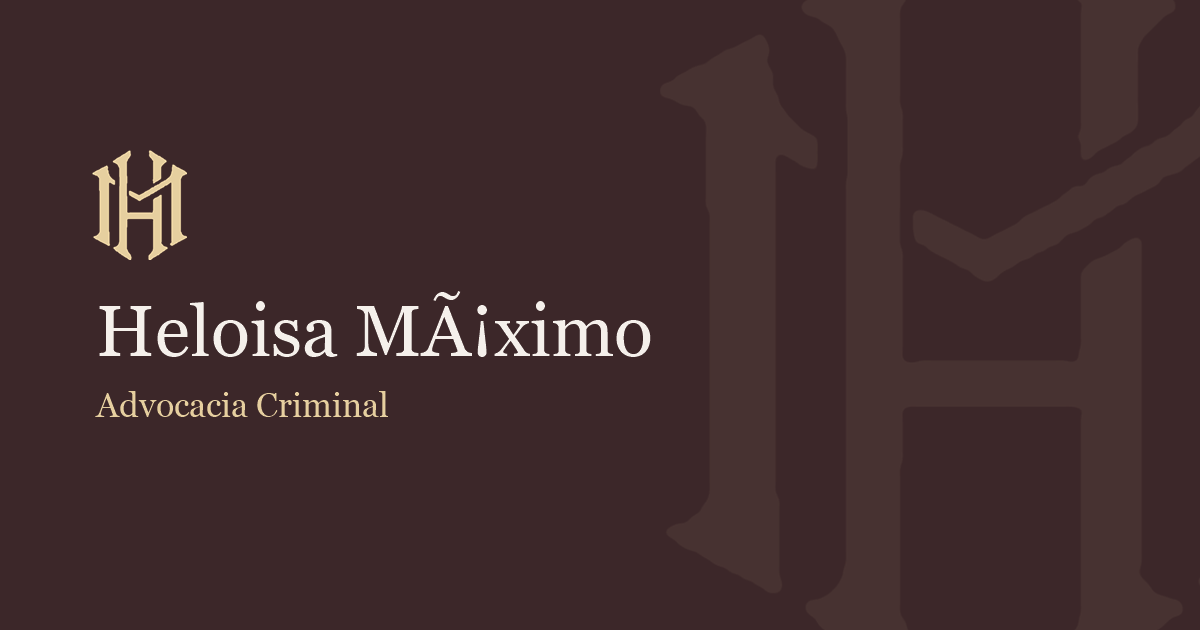
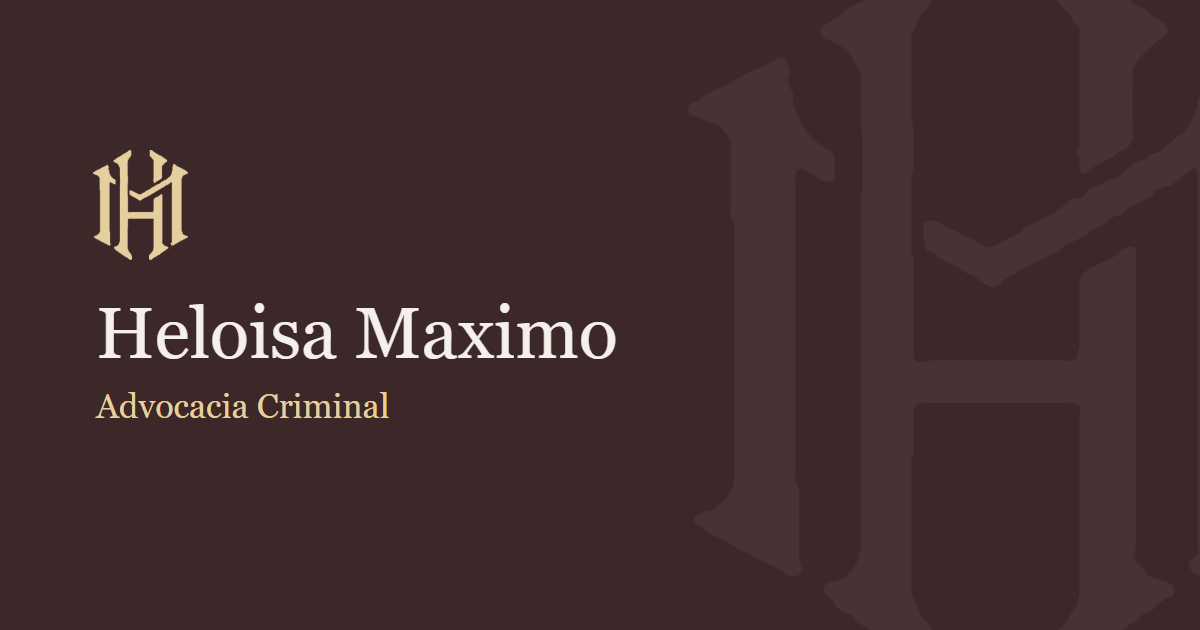
Nome corrigido para Heloisa Maximo, sem acento, e nova imagem de compartilhamento

Changed region(s): [[0.0925, 0.4524, 0.555, 0.573], [0.0617, 0.6032, 0.3392, 0.6635], [0.0925, 0.2413, 0.1542, 0.3921]]

diff --git a/src/textosLegais.js b/src/textosLegais.js
@@ -6,11 +6,11 @@ export const PRIVACIDADE = `# Política de Privacidade
 
 ## 1. Apresentação e identificação da responsável
 
-A presente Política de Privacidade estabelece as diretrizes aplicáveis ao tratamento de dados pessoais realizado no âmbito do website de **Heloisa Máximo**, advogada criminalista{{INSCRICAO}}.
+A presente Política de Privacidade estabelece as diretrizes aplicáveis ao tratamento de dados pessoais realizado no âmbito do website de **Heloisa Maximo**, advogada criminalista{{INSCRICAO}}.
 
 O tratamento de dados pessoais observará as disposições da Lei nº 13.709/2018 (Lei Geral de Proteção de Dados Pessoais — LGPD), da Lei nº 12.965/2014 (Marco Civil da Internet) e das demais normas aplicáveis à proteção da privacidade e ao exercício profissional da advocacia.
 
-Heloisa Máximo atua como controladora dos dados pessoais cujo tratamento esteja sob sua responsabilidade, competindo-lhe determinar as respectivas finalidades e os meios utilizados, nos termos da legislação vigente.
+Heloisa Maximo atua como controladora dos dados pessoais cujo tratamento esteja sob sua responsabilidade, competindo-lhe determinar as respectivas finalidades e os meios utilizados, nos termos da legislação vigente.
 
 Esta política tem por objetivo informar, de maneira clara e acessível, quais dados podem ser tratados, suas finalidades, os fundamentos legais aplicáveis, as condições de armazenamento e compartilhamento e os direitos assegurados aos respectivos titulares.
 
@@ -227,7 +227,7 @@ O titular poderá, ainda, apresentar petições ou reclamações perante a Autor
 
 Para solicitar informações sobre o tratamento de dados pessoais, esclarecer dúvidas ou exercer os direitos previstos na LGPD, o titular poderá entrar em contato com:
 
-**Heloisa Máximo**
+**Heloisa Maximo**
 Advogada{{OAB_LINHA}}
 **Canal de atendimento:** WhatsApp profissional disponibilizado no website.
 
@@ -251,7 +251,7 @@ export const TERMOS = `# Termos de Uso
 
 ## 1. Disposições preliminares
 
-Os presentes Termos de Uso estabelecem as condições aplicáveis ao acesso, à navegação e à utilização do website institucional de **Heloisa Máximo**, advogada criminalista{{INSCRICAO}}.
+Os presentes Termos de Uso estabelecem as condições aplicáveis ao acesso, à navegação e à utilização do website institucional de **Heloisa Maximo**, advogada criminalista{{INSCRICAO}}.
 
 O website destina-se à divulgação de informações institucionais e conteúdos jurídicos de caráter informativo, observadas as disposições do Estatuto da Advocacia e da OAB (Lei nº 8.906/1994), do Código de Ética e Disciplina da OAB, do Provimento nº 205/2021 do Conselho Federal da OAB e das demais normas aplicáveis.
 
@@ -261,7 +261,7 @@ Estes Termos de Uso devem ser interpretados em conjunto com a Política de Priva
 
 ## 2. Identificação e finalidade do website
 
-O website constitui um canal institucional destinado à apresentação da atuação profissional de Heloisa Máximo e à disponibilização de informações relacionadas ao Direito, com ênfase na área criminal.
+O website constitui um canal institucional destinado à apresentação da atuação profissional de Heloisa Maximo e à disponibilização de informações relacionadas ao Direito, com ênfase na área criminal.
 
 Seu conteúdo poderá compreender informações sobre trajetória profissional, áreas de atuação, publicações jurídicas, esclarecimentos gerais e canais de comunicação.
 
@@ -342,7 +342,7 @@ A utilização indevida poderá ensejar a adoção das medidas técnicas e jurí
 
 Os conteúdos originais disponibilizados no website, incluindo textos, artigos, fotografias, elementos gráficos, composições visuais e demais materiais protegidos, estão sujeitos à legislação brasileira de propriedade intelectual, especialmente à Lei nº 9.610/1998 (Lei de Direitos Autorais).
 
-Os direitos sobre esses materiais pertencem aos respectivos titulares, incluindo Heloisa Máximo quando se tratar de conteúdo de sua titularidade, ressalvados os materiais licenciados ou utilizados mediante autorização de terceiros.
+Os direitos sobre esses materiais pertencem aos respectivos titulares, incluindo Heloisa Maximo quando se tratar de conteúdo de sua titularidade, ressalvados os materiais licenciados ou utilizados mediante autorização de terceiros.
 
 A disponibilização pública dos conteúdos não implica transferência de titularidade, cessão de direitos ou concessão de autorização irrestrita para utilização.
 
@@ -392,7 +392,7 @@ Esses links têm finalidade informativa ou de facilitar o acesso aos canais de c
 
 O acesso a websites e plataformas externas sujeita o visitante às respectivas condições de uso, políticas de privacidade e práticas operacionais.
 
-Heloisa Máximo não exerce controle sobre a administração, a disponibilidade, as políticas internas ou as alterações promovidas por serviços independentes de terceiros.
+Heloisa Maximo não exerce controle sobre a administração, a disponibilidade, as políticas internas ou as alterações promovidas por serviços independentes de terceiros.
 
 A inclusão de links externos não representa, necessariamente, recomendação, associação comercial ou concordância com todo o conteúdo disponibilizado pelas respectivas plataformas.
 
@@ -464,7 +464,7 @@ Eventuais controvérsias serão submetidas aos meios de solução juridicamente 
 
 Dúvidas relacionadas ao conteúdo destes Termos de Uso poderão ser encaminhadas pelos canais profissionais disponibilizados no website.
 
-**Heloisa Máximo**
+**Heloisa Maximo**
 Advogada Criminalista
 {{OAB}}
 **Contato:** WhatsApp profissional disponível no website.

diff --git a/public/index.html b/public/index.html
@@ -3,25 +3,25 @@
   <head>
     <meta charset="utf-8" />
     <meta name="viewport" content="width=device-width, initial-scale=1" />
-    <title>Heloisa Máximo · Advocacia Criminal</title>
-    <meta name="description" content="Heloisa Máximo, advogada criminalista. Atuação em Direito Penal e Processual Penal, com base em Sergipe e atuação em todo o Brasil." />
-    <meta name="author" content="Heloisa Máximo" />
+    <title>Heloisa Maximo · Advocacia Criminal</title>
+    <meta name="description" content="Heloisa Maximo, advogada criminalista. Atuação em Direito Penal e Processual Penal, com base em Sergipe e atuação em todo o Brasil." />
+    <meta name="author" content="Heloisa Maximo" />
     <meta name="robots" content="index, follow" />
     <meta name="theme-color" content="#3c2729" />
     <link rel="canonical" href="https://advheloisamaximo.vercel.app/" />
 
     <meta property="og:type" content="website" />
     <meta property="og:locale" content="pt_BR" />
-    <meta property="og:site_name" content="Heloisa Máximo · Advocacia Criminal" />
-    <meta property="og:title" content="Heloisa Máximo · Advocacia Criminal" />
+    <meta property="og:site_name" content="Heloisa Maximo · Advocacia Criminal" />
+    <meta property="og:title" content="Heloisa Maximo · Advocacia Criminal" />
     <meta property="og:description" content="Atuação em Direito Penal e Processual Penal, com base em Sergipe e atuação em todo o Brasil." />
     <meta property="og:url" content="https://advheloisamaximo.vercel.app/" />
     <meta property="og:image" content="https://advheloisamaximo.vercel.app/og.png" />
     <meta property="og:image:width" content="1200" />
     <meta property="og:image:height" content="630" />
-    <meta property="og:image:alt" content="Monograma HM e o nome Heloisa Máximo, Advocacia Criminal" />
+    <meta property="og:image:alt" content="Monograma HM e o nome Heloisa Maximo, Advocacia Criminal" />
     <meta name="twitter:card" content="summary_large_image" />
-    <meta name="twitter:title" content="Heloisa Máximo · Advocacia Criminal" />
+    <meta name="twitter:title" content="Heloisa Maximo · Advocacia Criminal" />
     <meta name="twitter:description" content="Atuação em Direito Penal e Processual Penal, com base em Sergipe e atuação em todo o Brasil." />
     <meta name="twitter:image" content="https://advheloisamaximo.vercel.app/og.png" />
 
@@ -39,7 +39,7 @@
         "@context": "https://schema.org",
         "@type": "LegalService",
         "@id": "https://advheloisamaximo.vercel.app/#escritorio",
-        "name": "Heloisa Máximo · Advocacia Criminal",
+        "name": "Heloisa Maximo · Advocacia Criminal",
         "description": "Advocacia criminal em Direito Penal e Processual Penal, com base em Sergipe e atuação em todo o Brasil.",
         "url": "https://advheloisamaximo.vercel.app/",
         "image": "https://advheloisamaximo.vercel.app/og.png",
@@ -51,7 +51,7 @@
         "sameAs": ["https://www.instagram.com/advheloisamaximo/"],
         "founder": {
           "@type": "Person",
-          "name": "Heloisa Máximo",
+          "name": "Heloisa Maximo",
           "jobTitle": "Advogada Criminalista",
           "image": "https://advheloisamaximo.vercel.app/Heloisa.webp"
         }
@@ -60,7 +60,7 @@
   </head>
   <body>
     <noscript>
-      Este site precisa de JavaScript para funcionar. Para falar com Heloisa Máximo, advogada criminalista,
+      Este site precisa de JavaScript para funcionar. Para falar com Heloisa Maximo, advogada criminalista,
       use o WhatsApp +55 79 99627-0697.
     </noscript>
     <div id="root"></div>

diff --git a/src/data.js b/src/data.js
@@ -1,7 +1,7 @@
 // Textos, links e informações da advogada usados no site.
 
 export const PERFIL = {
-  nome: 'Heloisa Máximo',
+  nome: 'Heloisa Maximo',
   titulo: 'Advogada Criminalista',
   slogan: 'Defesa e orientação na área criminal.',
   especialidade: 'Direito Penal e Processual Penal',
@@ -19,8 +19,8 @@ export const DEV = {
 
 export const CONTATO = {
   whatsapp: '+55 79 99627-0697',
-  mensagem: 'Olá, Dra. Heloisa Máximo! Vim pelo seu site e gostaria de falar com a senhora.',
-  mensagemAnalise: 'Olá, Dra. Heloisa Máximo! Vim pelo seu site e gostaria de falar com a senhora sobre um caso.\n\nOrganizei as informações e respondi o seguinte:',
+  mensagem: 'Olá, Dra. Heloisa Maximo! Vim pelo seu site e gostaria de falar com a senhora.',
+  mensagemAnalise: 'Olá, Dra. Heloisa Maximo! Vim pelo seu site e gostaria de falar com a senhora sobre um caso.\n\nOrganizei as informações e respondi o seguinte:',
   instagram: 'https://www.instagram.com/advheloisamaximo/',
   instagramUser: '@advheloisamaximo',
   telefone: '',
@@ -91,7 +91,7 @@ export const CONTEUDOS = [
     resumo:
       'Palestra no projeto “Advocacia por Elas”, da OAB/SE, representando a Jovem Advocacia no interior do estado.',
     imagem: '/conteudo/advocacia-por-elas.jpg',
-    imagemAlt: 'Heloisa Máximo falando ao microfone durante palestra',
+    imagemAlt: 'Heloisa Maximo falando ao microfone durante palestra',
     texto: [
       'Na última semana eu tive a honra e o privilégio de estar como palestrante no projeto “Advocacia por Elas” da OAB/SE, representando a Jovem Advocacia no interior do estado.',
       'Ocupar este espaço para debater violência doméstica é compreender que a nossa missão transcende os processos; ela toca na dignidade humana. Março não é um mês de flores, é um mês de vigília.',
@@ -106,7 +106,7 @@ export const CONTEUDOS = [
     resumo:
       'Atuação no PREFEM/SE em conjunto com o Mecanismo Estadual de Prevenção e Combate à Tortura.',
     imagem: '/conteudo/prefem-se.jpg',
-    imagemAlt: 'Heloisa Máximo diante do portão de um pavilhão prisional, segurando uma prancheta',
+    imagemAlt: 'Heloisa Maximo diante do portão de um pavilhão prisional, segurando uma prancheta',
     texto: [
       'É comum que o sistema prisional seja discutido sob o escudo das estatísticas, um distanciamento que, muitas vezes, mascara a crueza da vida real. No entanto, a verdade do cárcere se impõe nos detalhes, que por vezes passam despercebidos ou são minimizados por aqueles que não precisam viver essa realidade.',
       'Minha atuação no PREFEM/SE, em conjunto com o Mecanismo Estadual de Prevenção e Combate à Tortura, não foi apenas uma diligência técnica; foi um confronto necessário com a face mais dura do Estado. Ninguém retorna ileso ao encarar o cárcere de frente; é uma vivência que desarticula qualquer indiferença e transmuta nossa consciência sobre o Direito.',

diff --git a/src/metadados.js b/src/metadados.js
@@ -1,13 +1,13 @@
-const NOME = 'Heloisa Máximo'
+const NOME = 'Heloisa Maximo'
 
 const PAGINAS = {
   home: {
     titulo: `${NOME} · Advocacia Criminal`,
-    descricao: 'Heloisa Máximo, advogada criminalista. Atuação em Direito Penal e Processual Penal, com base em Sergipe e atuação em todo o Brasil.'
+    descricao: 'Heloisa Maximo, advogada criminalista. Atuação em Direito Penal e Processual Penal, com base em Sergipe e atuação em todo o Brasil.'
   },
   sobre: {
     titulo: `Sobre · ${NOME}`,
-    descricao: 'Conheça a trajetória de Heloisa Máximo, advogada criminalista com base em Sergipe e atuação em todo o Brasil.'
+    descricao: 'Conheça a trajetória de Heloisa Maximo, advogada criminalista com base em Sergipe e atuação em todo o Brasil.'
   },
   conteudo: {
     titulo: `Conteúdo jurídico · ${NOME}`,
@@ -19,7 +19,7 @@ const PAGINAS = {
   },
   contato: {
     titulo: `Contato · ${NOME}`,
-    descricao: 'Fale com Heloisa Máximo, advogada criminalista, pelo WhatsApp ou pelo Instagram. Atendimento confidencial.'
+    descricao: 'Fale com Heloisa Maximo, advogada criminalista, pelo WhatsApp ou pelo Instagram. Atendimento confidencial.'
   },
   diagnostico: {
     titulo: `Conte sua situação · ${NOME}`,
@@ -31,11 +31,11 @@ const PAGINAS = {
   },
   privacidade: {
     titulo: `Política de Privacidade · ${NOME}`,
-    descricao: 'Como os dados pessoais são tratados no site de Heloisa Máximo, conforme a LGPD.'
+    descricao: 'Como os dados pessoais são tratados no site de Heloisa Maximo, conforme a LGPD.'
   },
   termos: {
     titulo: `Termos de Uso · ${NOME}`,
-    descricao: 'Condições de uso do site institucional de Heloisa Máximo.'
+    descricao: 'Condições de uso do site institucional de Heloisa Maximo.'
   },
   painel: { titulo: `Painel · ${NOME}`, descricao: 'Área restrita.' }
 }

diff --git a/src/Pages.jsx b/src/Pages.jsx
@@ -156,7 +156,7 @@ export function SobrePage({ abrir }) {
         <section className="sinal sinal-linha">
           <h2>Trajetória</h2>
           <div className="page-texto">
-            <p><Realce>{`Heloisa Máximo é advogada criminalista, com atuação dedicada ao Direito Penal e ao Direito Processual Penal, da fase de investigação aos tribunais.`}</Realce></p>
+            <p><Realce>{`Heloisa Maximo é advogada criminalista, com atuação dedicada ao Direito Penal e ao Direito Processual Penal, da fase de investigação aos tribunais.`}</Realce></p>
             <p><Realce>{`Representando a Jovem Advocacia, foi palestrante do projeto “Advocacia por Elas”, da OAB/SE, debatendo o enfrentamento à violência doméstica no interior do estado.`}</Realce></p>
             <p><Realce>{`Atuou no PREFEM/SE em conjunto com o Mecanismo Estadual de Prevenção e Combate à Tortura, acompanhando de perto a realidade do sistema prisional. Essa experiência reforça sua convicção de que a dignidade humana é inegociável.`}</Realce></p>
             <p><Realce>{`Também atua na assistência a vítimas e a suas famílias, acompanhando a investigação e o processo.`}</Realce></p>

diff --git a/src/Header.jsx b/src/Header.jsx
@@ -33,7 +33,7 @@ export default function Header({ rota, endereco, irPara, abrir, tema, alternarTe
       <nav className="header-nav">
         <button className="header-logo" onClick={() => { setMenu(false); irPara(0) }} aria-label="Início">
           <span className="header-logo-mark" />
-          <span className="header-logo-text">Heloisa Máximo<small>Advocacia Criminal</small></span>
+          <span className="header-logo-text">Heloisa Maximo<small>Advocacia Criminal</small></span>
         </button>
 
         <div className="header-right">

diff --git a/src/Diagnostico.jsx b/src/Diagnostico.jsx
@@ -73,7 +73,7 @@ function Celular({ analise }) {
     <div className="tel">
       <div className="tel-topo">
         <img className="tel-avatar" src={perfil.fotoWhatsapp || perfil.foto} alt="" />
-        <div><strong>Heloisa Máximo</strong><small>Advocacia Criminal</small></div>
+        <div><strong>Heloisa Maximo</strong><small>Advocacia Criminal</small></div>
       </div>
       <div className="tel-conversa" ref={conversa} aria-live="polite">
         <p className="tel-aviso">Mensagens automáticas</p>

diff --git a/src/Painel.jsx b/src/Painel.jsx
@@ -126,7 +126,7 @@ function Marca() {
     <div className="adm-marca">
       <span className="adm-mark" />
       <div>
-        <strong>Heloisa Máximo</strong>
+        <strong>Heloisa Maximo</strong>
         <small>Painel do site</small>
       </div>
     </div>

diff --git a/README.md b/README.md
@@ -1,6 +1,6 @@
-# Heloisa Máximo Advocacia
+# Heloisa Maximo Advocacia
 
-Site institucional da advogada criminalista Heloisa Máximo.
+Site institucional da advogada criminalista Heloisa Maximo.
 
 Site publicado: https://advheloisamaximo.vercel.app
 
@@ -66,4 +66,4 @@ Modelo 3D da estátua: [Lady Justice Statue](https://sketchfab.com/3d-models/lad
 
 ## Licença
 
-Todos os direitos reservados. Heloisa Máximo Advocacia.
+Todos os direitos reservados. Heloisa Maximo Advocacia.
